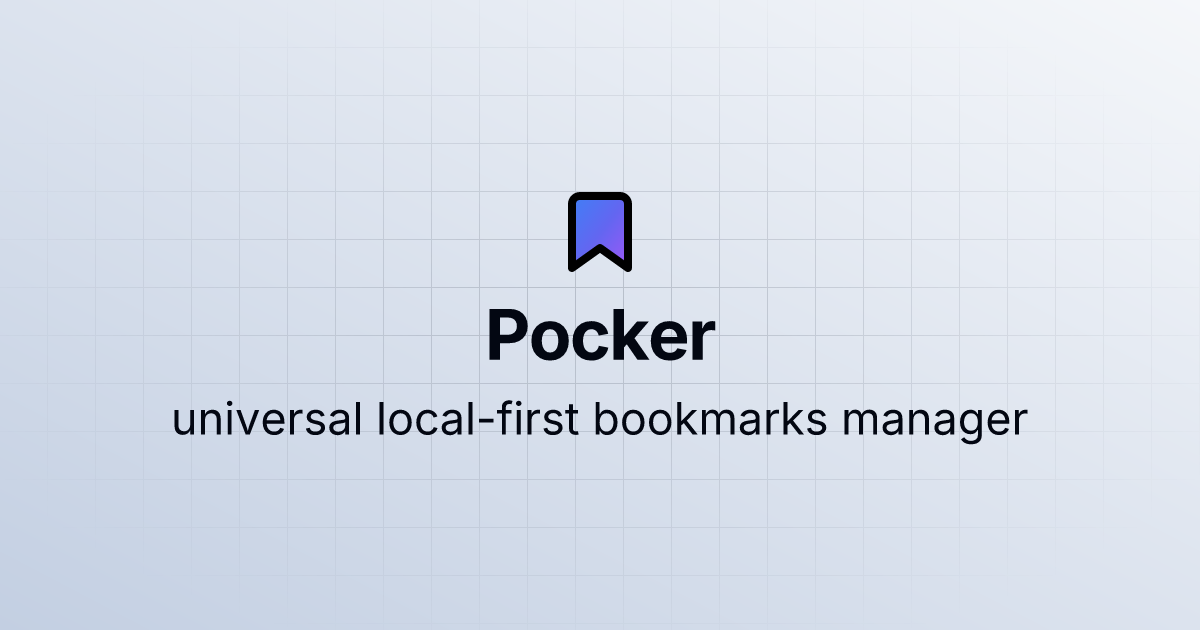
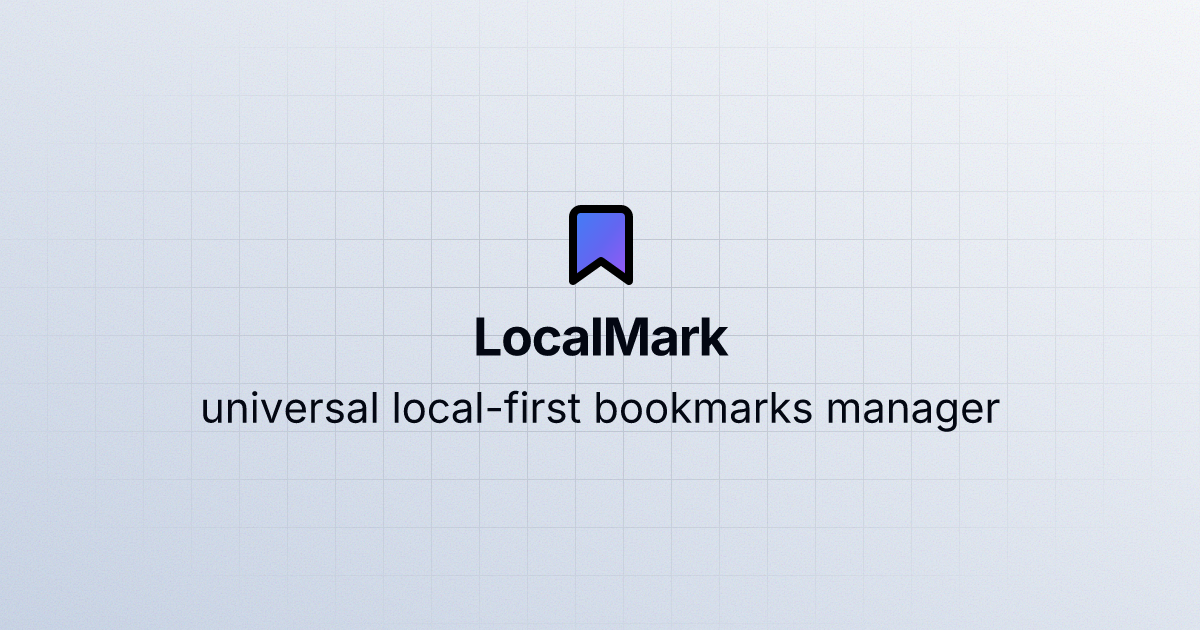
new url and updated OG assets

diff --git a/index.html b/index.html
@@ -16,22 +16,22 @@
   <meta name="creator" content="LocalMark" />
 
   <!-- Facebook Meta Tags -->
-  <meta property="og:url" content="https://getpocker.artlu.xyz">
+  <meta property="og:url" content="https://localmark.uk">
   <meta property="og:type" content="website">
   <meta property="og:title" content="LocalMark - Universal Local-First Bookmarks Manager">
   <meta property="og:description"
     content="Save and access your bookmarks from anywhere with LocalMark, the seamless local-first bookmarking tool for professionals and casual users alike">
-  <meta property="og:image" content="https://getpocker.artlu.xyz/og-image-en.png">
-  <meta property="og:logo" content="https://getpocker.artlu.xyz/icon1.svg" />
+  <meta property="og:image" content="https://localmark.uk/og-image-en.png">
+  <meta property="og:logo" content="https://localmark.uk/icon1.svg" />
 
   <!-- Twitter Meta Tags -->
   <meta name="twitter:card" content="summary_large_image">
-  <meta property="twitter:domain" content="getpocker.artlu.xyz">
-  <meta property="twitter:url" content="getpocker.artlu.xyz">
+  <meta property="twitter:domain" content="localmark.uk">
+  <meta property="twitter:url" content="localmark.uk">
   <meta name="twitter:title" content="LocalMark - Universal Local-First Bookmarks Manager">
   <meta name="twitter:description"
     content="Save and access your bookmarks from anywhere with LocalMark, the seamless local-first bookmarking tool for professionals and casual users alike">
-  <meta name="twitter:image" content="https://getpocker.artlu.xyz/og-image-x.png">
+  <meta name="twitter:image" content="https://localmark.uk/og-image-x.png">
 
 </head>
 

diff --git a/README.md b/README.md
@@ -1,7 +1,7 @@
 # LocalMark
 
 [![AGPL LICENSE](https://img.shields.io/badge/LICENSE-AGPL-blue.svg)](https://www.gnu.org/licenses/agpl-3.0.html)
-[![Try It Online](https://img.shields.io/badge/TryIt-Online-orange.svg)](https://getpocker.artlu.xyz)
+[![Try It Online](https://img.shields.io/badge/TryIt-Online-orange.svg)](https://localmark.uk)
 
 ## Introduction
 
@@ -9,7 +9,7 @@ LocalMark is a fork + rewrite of Cloudmark by Wesley Yang, a universal cloud boo
 
 Try the original online: [cloudmark.site](https://cloudmark.site)
 
-Try the fork online: [getpocker.artlu.xyz](https://getpocker.artlu.xyz)
+Try the fork online: [localmark.uk](https://localmark.uk)
 
 ## Key Features
 
@@ -23,11 +23,11 @@ Try the fork online: [getpocker.artlu.xyz](https://getpocker.artlu.xyz)
 
 ## Quick Start
 
-1. Visit [LocalMark](https://getpocker.artlu.xyz)
+1. Visit [LocalMark](https://localmark.uk)
 2. Generate a unique identifier (mark) or use a custom one
 3. Install the bookmarklet to your browser
 4. Click the bookmarklet to save webpages while browsing
-5. Visit `getpocker.artlu.xyz/your-mark` anytime to view and manage your bookmarks
+5. Visit `localmark.uk/your-mark` anytime to view and manage your bookmarks
 
 ## Local Development
 
@@ -41,7 +41,7 @@ Try the fork online: [getpocker.artlu.xyz](https://getpocker.artlu.xyz)
 bun install
 ```
 
-### Development Mode with HMR + Local Preview on Cloudflare Workers
+### Development Mode with HMR
 
 ```bash
 bun dev
@@ -71,6 +71,10 @@ bun run deploy
 - [x] no `zsa` Next server actions
 - [x] local-first rather than cloud-first
 - [x] Evolu instead of Cloudflare KV
+
+## Attribution
+
+OG Images generated with [Free OG Image Generator](https://ogimage.click/)
 
 ## License
 
